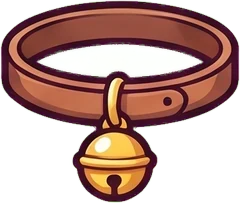
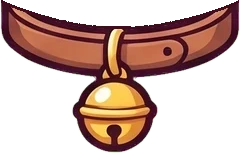
🔔 방울 목걸이를 앞에서 본 모양으로 · 파수꾼 목 위치 내림 (판 84)
Claude-Session: https://claude.ai/code/session_01WWoPCKk2gGNwj6qV14RFC8

diff --git a/merchant.js b/merchant.js
@@ -3,7 +3,7 @@
    그림은 merchant/ 폴더. 일주일에 한 번 랜덤한 날 와서 종류별로 2가지씩 팔아요(경쟁 없음). 흥정은 그날 한 번. */
 (()=>{
 /* ---------- 물건 (merchant.sql merch_item 과 값이 같아야 해요) ---------- */
-const SZ = {"acc_angel":[240,128],"acc_backpack":[236,240],"acc_bat":[240,94],"acc_bow":[240,214],"acc_broom":[185,240],"acc_cape":[240,209],"acc_chef":[240,217],"acc_collar":[240,203],"acc_crown":[240,171],"acc_earmuff":[240,213],"acc_fairy":[240,191],"acc_flower":[240,144],"acc_glasses":[240,102],"acc_heart":[240,98],"acc_pirate":[240,139],"acc_scarf":[239,240],"acc_sprout":[240,165],"acc_wizhat":[240,175],
+const SZ = {"acc_angel":[240,128],"acc_backpack":[236,240],"acc_bat":[240,94],"acc_bow":[240,214],"acc_broom":[185,240],"acc_cape":[240,209],"acc_chef":[240,217],"acc_collar":[240,153],"acc_crown":[240,171],"acc_earmuff":[240,213],"acc_fairy":[240,191],"acc_flower":[240,144],"acc_glasses":[240,102],"acc_heart":[240,98],"acc_pirate":[240,139],"acc_scarf":[239,240],"acc_sprout":[240,165],"acc_wizhat":[240,175],
   "g_cloud":[208,250],"g_crystal":[248,340],"g_fish":[205,253],"g_fox":[257,340],"g_gargoyle":[290,340],"g_ink":[251,340],"g_lava":[174,294],"g_owl":[306,340],"g_robot":[173,268],"g_tree":[221,288]};
 const ITEMS = {
   g_gargoyle:{kind:'guard',name:'꼬마 가고일',price:3000}, g_fox:{kind:'guard',name:'그림자 여우',price:3000}, g_crystal:{kind:'guard',name:'수정 골렘',price:3000},
@@ -16,7 +16,7 @@ const ITEMS = {
   acc_flower:{kind:'acc',slot:'head',name:'꽃관',price:350,s:.95,o:.55}, acc_earmuff:{kind:'acc',slot:'head',name:'귀마개',price:350,s:1.15,o:.42},
   acc_bow:{kind:'acc',slot:'head',name:'리본',price:300,s:.42,o:.55,dx:.3}, acc_sprout:{kind:'acc',slot:'head',name:'새싹 핀',price:300,s:.34,o:.12},
   acc_glasses:{kind:'acc',slot:'face',name:'동그란 안경',price:300,s:1.4}, acc_heart:{kind:'acc',slot:'face',name:'하트 선글라스',price:350,s:1.4},
-  acc_scarf:{kind:'acc',slot:'neck',name:'줄무늬 목도리',price:350,s:1.5,o:.22}, acc_collar:{kind:'acc',slot:'neck',name:'방울 목걸이',price:300,s:1.1,o:.35},
+  acc_scarf:{kind:'acc',slot:'neck',name:'줄무늬 목도리',price:350,s:1.5,o:.1}, acc_collar:{kind:'acc',slot:'neck',name:'방울 목걸이',price:300,s:1.05,o:.06},
   acc_angel:{kind:'acc',slot:'back',name:'천사 날개',price:500,s:1.6}, acc_bat:{kind:'acc',slot:'back',name:'박쥐 날개',price:500,s:1.7},
   acc_fairy:{kind:'acc',slot:'back',name:'요정 날개',price:500,s:1.45}, acc_cape:{kind:'acc',slot:'back',name:'빨간 망토',price:450,s:1.12,cape:true},
   acc_backpack:{kind:'acc',slot:'back',name:'모험가 배낭',price:450,s:.58,dx:.44},
@@ -28,22 +28,23 @@ const ITEMS = {
 window.MERCH_ITEMS = ITEMS;
 // 파수꾼마다 소품 자리 (그림 가로·세로에 대한 비율): 머리 위(hx,ht,hw) · 눈(ey,ew) · 목(ny,nw) · 등(by,bw) · 손(hdx,hdy)
 const ANC = {
-  g_gargoyle:{hx:.5,ht:.12,hw:.62,ey:.40,ew:.40,ny:.55,nw:.40,by:.62,bw:.95,hdx:.22,hdy:.78},
-  g_fox:{hx:.47,ht:.16,hw:.6,ey:.47,ew:.42,ny:.64,nw:.38,by:.66,bw:.85,hdx:.25,hdy:.83},
-  g_crystal:{hx:.5,ht:.05,hw:.82,ey:.42,ew:.55,ny:.70,nw:.38,by:.74,bw:.8,hdx:.18,hdy:.78},
-  g_ink:{hx:.5,ht:.2,hw:.6,ey:.52,ew:.55,ny:.72,nw:.5,by:.6,bw:.95,hdx:.1,hdy:.73},
-  g_owl:{hx:.5,ht:.09,hw:.7,ey:.43,ew:.58,ny:.57,nw:.45,by:.6,bw:1,hdx:.12,hdy:.65},
-  g_tree:{hx:.5,ht:.12,hw:.62,ey:.48,ew:.4,ny:.63,nw:.35,by:.62,bw:.9,hdx:.18,hdy:.63},
-  g_lava:{hx:.5,ht:.2,hw:.72,ey:.52,ew:.5,ny:.70,nw:.45,by:.7,bw:.95,hdx:.12,hdy:.75},
-  g_cloud:{hx:.5,ht:.12,hw:.72,ey:.45,ew:.38,ny:.62,nw:.45,by:.65,bw:.95,hdx:.12,hdy:.70},
-  g_robot:{hx:.5,ht:.12,hw:.75,ey:.44,ew:.55,ny:.63,nw:.42,by:.7,bw:.9,hdx:.14,hdy:.82},
-  g_fish:{hx:.47,ht:.16,hw:.6,ey:.45,ew:.42,ny:.6,nw:.35,by:.62,bw:.9,hdx:.2,hdy:.75},
+  g_gargoyle:{hx:.5,ht:.12,hw:.62,ey:.40,ew:.40,ny:0.58,nw:.40,by:.62,bw:.95,hdx:.22,hdy:.78},
+  g_fox:{hx:.47,ht:.16,hw:.6,ey:.47,ew:.42,ny:0.62,nw:.38,by:.66,bw:.85,hdx:.25,hdy:.83},
+  g_crystal:{hx:.5,ht:.05,hw:.82,ey:.42,ew:.55,ny:0.66,nw:.38,by:.74,bw:.8,hdx:.18,hdy:.78},
+  g_ink:{hx:.5,ht:.2,hw:.6,ey:.52,ew:.55,ny:0.64,nw:.5,by:.6,bw:.95,hdx:.1,hdy:.73},
+  g_owl:{hx:.5,ht:.09,hw:.7,ey:.43,ew:.58,ny:0.62,nw:.45,by:.6,bw:1,hdx:.12,hdy:.65},
+  g_tree:{hx:.5,ht:.12,hw:.62,ey:.48,ew:.4,ny:0.61,nw:.35,by:.62,bw:.9,hdx:.18,hdy:.63},
+  g_lava:{hx:.5,ht:.2,hw:.72,ey:.52,ew:.5,ny:0.67,nw:.45,by:.7,bw:.95,hdx:.12,hdy:.75},
+  g_cloud:{hx:.5,ht:.12,hw:.72,ey:.45,ew:.38,ny:0.64,nw:.45,by:.65,bw:.95,hdx:.12,hdy:.70},
+  g_robot:{hx:.5,ht:.12,hw:.75,ey:.44,ew:.55,ny:0.64,nw:.42,by:.7,bw:.9,hdx:.14,hdy:.82},
+  g_fish:{hx:.47,ht:.16,hw:.6,ey:.45,ew:.42,ny:0.63,nw:.35,by:.62,bw:.9,hdx:.2,hdy:.75},
 };
 const PERKS = [['keep','🧺 바구니 지킴이','바구니가 1.5배 더 오래 쌓여요'],['scent','📜 도안 냄새','봉인을 풀 때 50% 확률로 아직 없는 도안부터'],['bonus','💠 감시 보너스','바구니를 받을 때 20% 확률로 💠 +30%']];
 const SLOTS = [['head','머리'],['face','얼굴'],['neck','목'],['back','등'],['hand','손']];
 const KINDS = [['guard','🛡 파수꾼','한 사람에 한 마리 · 아공간 농장을 지켜요 · 바꿀 때도 같은 값'],['sky','✨ 하늘 장식','아공간 배경 위를 천천히 떠다녀요'],['acc','🎩 파수꾼 꾸미기','머리 · 얼굴 · 목 · 등 · 손에 하나씩'],['ing','🧪 희귀 재료','가판대용 · 1개 = 10잔 · 한 번에 3개까지']];
 const SAY = ['냥… 오늘 하루만 머물다 갈 거다냥.','다른 차원에서 귀한 물건을 잔뜩 가져왔다냥.','흥정은 한 번만이다냥. 신중하게 고르라냥.','파편만 받는다냥. 코인은 이 차원 돈이라 안 받는다냥.'];
-const src = c => `merchant/${c}.webp`;
+const IMG_V = {acc_collar:2};   // 같은 이름으로 그림을 바꾸면 숫자를 올려요 (옛 그림 캐시 피하기)
+const src = c => `merchant/${c}.webp${IMG_V[c] ? '?v='+IMG_V[c] : ''}`;
 const pct = v => (v*100).toFixed(2)+'%';
 
 /* ---------- 파수꾼 + 소품 그리기 ---------- */

diff --git a/index.html b/index.html
@@ -9312,7 +9312,7 @@ start();
 
 </script>
 <script src="stall.js?v=1025a"></script>
-<script src="merchant.js?v=1025d"></script>
-<p class="site-ver">마감의 숲 · 10-25 판 83</p>
+<script src="merchant.js?v=1025e"></script>
+<p class="site-ver">마감의 숲 · 10-25 판 84</p>
 </body>
 </html>
